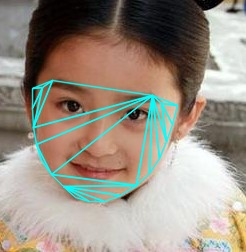
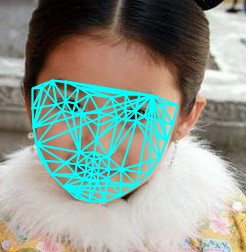
将“人脸直接贴取”，“人脸融合”的功能和进去了，并且成功运行

Changed region(s): [[0.1138, 0.3056, 0.7398, 0.8333]]

diff --git a/src/main/java/com/example/cinema/blImpl/picture/PhotoServiceImpl.java b/src/main/java/com/example/cinema/blImpl/picture/PhotoServiceImpl.java
@@ -49,37 +49,6 @@ public class PhotoServiceImpl implements PhotoService {
             faceCascade.load("D:\\openCV\\opencv341\\opencv\\build\\etc\\haarcascades\\haarcascade_frontalface_alt.xml");
             // 调用摄像头
             VideoCapture capture = new VideoCapture();
-//            try {
-//                capture.open(0);
-//                if (capture.isOpened()) {
-//                    Mat image = new Mat();
-//                    int i=0;
-//                    while(i<100) {
-//                        capture.read(image);
-//                        if (!image.empty()) {
-//                            //detectAndDisplay(image, faceCascade);
-//                            videoPanel.setImageWithMat(image);
-//                            cameraFrame.repaint();
-//                            i++;
-////                        Thread.sleep(1000);
-//                        } else {
-//                            System.exit(0);//退出
-//                            break;
-//                        }
-//                    }
-//
-//                    capture.read(image);
-//                    videoPanel.saveImageWithMat(image);
-//                    cameraFrame.repaint();
-//                    //System.exit(2);//退出
-//                }
-//                Thread.sleep(200);//2000毫秒刷新一次图像
-//                System.exit(0);//退出
-//            }
-//            catch (Exception e){}
-//            finally {
-//                capture.release();
-//            }
             try {
                 capture.open(0);
                 if (capture.isOpened()) {
@@ -98,13 +67,10 @@ public class PhotoServiceImpl implements PhotoService {
                             break;
                         }
                     }
-                    System.out.println("wq");
                     capture.read(image);
                     videoPanel.saveImageWithMat(image);
                     capture.release();
                     cameraFrame.dispose();
-                    System.out.println("wq1");
-                    //System.exit(0);
 
                 }
             } catch (InterruptedException e) {
@@ -112,38 +78,12 @@ public class PhotoServiceImpl implements PhotoService {
             } finally {
                 capture.release();
             }
-            System.out.println("12");
 
             String property = System.getProperty("user.dir");
             String path = property + "\\src\\main\\resources\\static\\photos\\photo.jpg";
-            File imageFile = new File(path);
-            if (imageFile.exists()) {
-                FileInputStream fis = null;
-                OutputStream os = null;
-                try {
-                    fis = new FileInputStream(imageFile);
-                    os = rp.getOutputStream();
-                    int count = 0;
-                    byte[] buffer = new byte[1024 * 8];
-                    while ((count = fis.read(buffer)) != -1) {
-                        os.write(buffer, 0, count);
-                       // os.flush();
-                    }
 
-                } catch (Exception e) {
-                    e.printStackTrace();
-                } finally {
-                    try {
-                        fis.close();
-                        os.close();
-                    } catch (IOException e) {
-                        e.printStackTrace();
-                    }
-                }
+            uploadPictureToAdvice(path,rp);
 
-            }
-
-            System.out.println(rp);
 
 
             return ResponseVO.buildSuccess();
@@ -156,90 +96,44 @@ public class PhotoServiceImpl implements PhotoService {
     }
 
 
+    /**
+     * 将后端生成的图片直接传到前端
+     * @param path
+     * @param rp
+     */
+    public static void uploadPictureToAdvice(String path,HttpServletResponse rp){
 
-//    @Override
-//    public ResponseVO takePictures() {
-//        Webcam webcam = Webcam.getDefault();
-//        webcam.setViewSize(WebcamResolution.VGA.getSize());
-//        WebcamPanel panel = new WebcamPanel(webcam);
-//        panel.setFPSDisplayed(true);
-//        panel.setDisplayDebugInfo(true);
-//        panel.setImageSizeDisplayed(true);
-//        panel.setMirrored(true);
-//
-//        JFrame window = new JFrame("Test webcam panel");
-//        window.add(panel);
-//        window.setResizable(true);
-//        window.setDefaultCloseOperation(JFrame.EXIT_ON_CLOSE);
-//        window.pack();
-//        window.setVisible(true);
-//
-//        final JButton button = new JButton("拍照");
-//        window.add(panel, BorderLayout.CENTER);
-//        window.add(button, BorderLayout.SOUTH);
-//        window.setResizable(true);
-//        window.pack();
-//        window.setVisible(true);
-//        try {
-//            String fileName = "D://" + System.currentTimeMillis(); // 保存路径即图片名称（不用加后缀）
-//            WebcamUtils.capture(webcam, fileName, ImageUtils.FORMAT_PNG);
-//            capture.open(0);
-//            if (capture.isOpened()) {
-//                Mat image = new Mat();
-//                int i=0;
-//                while(i<100) {
-//                    capture.read(image);
-//                    if (!image.empty()) {
-//                        //detectAndDisplay(image, faceCascade);
-//                        videoPanel.setImageWithMat(image);
-//                        cameraFrame.repaint();
-//                        i++;
-////                        Thread.sleep(1000);
-//                    } else {
-//                        System.exit(0);//退出
-//                        break;
-//                    }
-//                }
-//
-//                capture.read(image);
-//                videoPanel.saveImageWithMat(image);
-//                cameraFrame.repaint();
-//                //System.exit(2);//退出
-//            }
-//            Thread.sleep(200);//2000毫秒刷新一次图像
-//            System.exit(0);//退出
-//        }
-//        catch (Exception e){}
-//        finally {
-//            capture.release();
-//        }
-//        System.out.println("12");
-//        button.addActionListener(new ActionListener() {
-//            public void actionPerformed(ActionEvent e) {
-//
-//                button.setEnabled(false); // 设置按钮不可点击
-//
-//                // 实现拍照保存-------start
-//                String fileName = "D://" + System.currentTimeMillis(); // 保存路径即图片名称（不用加后缀）
-//                WebcamUtils.capture(webcam, fileName, ImageUtils.FORMAT_PNG);
-//                SwingUtilities.invokeLater(new Runnable() {
-//
-//                    @Override
-//                    public void run() {
-//                        JOptionPane.showMessageDialog(null, "拍照成功");
-//                        button.setEnabled(true); // 设置按钮可点击
-//
-//                        return;
-//                    }
-//                });
-//                // 实现拍照保存-------end
-//
-//            }
-//        });
-//
-//        return ResponseVO.buildSuccess();
-//    }
+//        String property = System.getProperty("user.dir");
+//        String path = property + "\\src\\main\\resources\\static\\photos\\photo.jpg";
+        File imageFile = new File(path);
+        if (imageFile.exists()) {
+            FileInputStream fis = null;
+            OutputStream os = null;
+            try {
+                fis = new FileInputStream(imageFile);
+                os = rp.getOutputStream();
+                int count = 0;
+                byte[] buffer = new byte[1024 * 8];
+                while ((count = fis.read(buffer)) != -1) {
+                    os.write(buffer, 0, count);
+                    // os.flush();
+                }
 
+            } catch (Exception e) {
+                e.printStackTrace();
+            } finally {
+                try {
+                    fis.close();
+                    os.close();
+                } catch (IOException e) {
+                    e.printStackTrace();
+                }
+            }
+
+        }
+
+        System.out.println(rp);
+    }
 
 
     /**

diff --git a/src/main/java/com/example/cinema/blImpl/picture/CartoonServiceImpl.java b/src/main/java/com/example/cinema/blImpl/picture/CartoonServiceImpl.java
@@ -5,7 +5,7 @@ import com.example.cinema.vo.ResponseVO;
 import org.springframework.beans.factory.annotation.Autowired;
 import org.springframework.stereotype.Service;
 
-
+import javax.servlet.http.HttpServletResponse;
 
 
 @Service
@@ -13,28 +13,35 @@ public class CartoonServiceImpl implements CartoonService {
     @Autowired
     OpenCVFaceSwap openCVFaceSwap;
 
+
+
     public static String savePath ;
 
     @Override
-    public ResponseVO ps(String path_real,String path_cartoon){
-//
+    public ResponseVO ps(String path_real, String path_cartoon, HttpServletResponse rp){
         String property_1 = System.getProperty("user.dir");
         String savePath = property_1 + "\\src\\main\\resources\\static\\photos\\";
 
-        //String savePath = "D:\\new\\";//图片存放位置
-        // 参数说明
-        // type ： opencv和baidu 两种获取人脸标记的位置点
-        // jingxi : true 使用全部点位进行分割，false使用外部轮廓的点位进行融合
-
-
         openCVFaceSwap.faceMerge(path_real,path_cartoon,savePath,"opencv",false);
+
+        String result_path=property_1+"\\src\\main\\resources\\static\\photos\\result.jpg";
+        openCVFaceSwap.uploadPictureToAdvice(result_path,rp);
 
         return ResponseVO.buildSuccess();
     }
 
 
     @Override
-    public ResponseVO fix(String path_real,String path_cartoon){
+    public ResponseVO fix(String path_real,String path_cartoon,HttpServletResponse rp){
+        String property_1 = System.getProperty("user.dir");
+        String savePath = property_1 + "\\src\\main\\resources\\static\\photos\\";
+
+        openCVFaceSwap.faceMerge(path_real,path_cartoon,savePath,"opencv",true);
+
+        String result_path=property_1+"\\src\\main\\resources\\static\\photos\\result.jpg";
+        openCVFaceSwap.uploadPictureToAdvice(result_path,rp);
+
+
         return ResponseVO.buildSuccess();
     }
 

diff --git a/src/main/java/com/example/cinema/blImpl/picture/OpenCVFaceSwap.java b/src/main/java/com/example/cinema/blImpl/picture/OpenCVFaceSwap.java
@@ -15,7 +15,11 @@ import org.bytedeco.opencv.opencv_imgproc.Subdiv2D;
 import org.bytedeco.opencv.opencv_imgproc.Vec6fVector;
 import org.springframework.stereotype.Service;
 
+import javax.servlet.http.HttpServletResponse;
 import java.io.File;
+import java.io.FileInputStream;
+import java.io.IOException;
+import java.io.OutputStream;
 import java.util.ArrayList;
 import java.util.LinkedList;
 import java.util.List;
@@ -585,4 +589,47 @@ public class OpenCVFaceSwap {
         //返回的就是两个图像的凸包的位置序列
         return  Pair.of(hull1, hull2);
     }
+
+
+
+    /**
+     * 将后端生成的图片直接传到前端
+     * @param path
+     * @param rp
+     */
+    public  void uploadPictureToAdvice(String path, HttpServletResponse rp){
+
+//        String property = System.getProperty("user.dir");
+//        String path = property + "\\src\\main\\resources\\static\\photos\\photo.jpg";
+        File imageFile = new File(path);
+        if (imageFile.exists()) {
+            FileInputStream fis = null;
+            OutputStream os = null;
+            try {
+                fis = new FileInputStream(imageFile);
+                os = rp.getOutputStream();
+                int count = 0;
+                byte[] buffer = new byte[1024 * 8];
+                while ((count = fis.read(buffer)) != -1) {
+                    os.write(buffer, 0, count);
+                    // os.flush();
+                }
+
+            } catch (Exception e) {
+                e.printStackTrace();
+            } finally {
+                try {
+                    fis.close();
+                    os.close();
+                } catch (IOException e) {
+                    e.printStackTrace();
+                }
+            }
+
+        }
+
+        System.out.println(rp);
+    }
+
+
 }

diff --git a/src/main/java/com/example/cinema/controller/picture/CartoonController.java b/src/main/java/com/example/cinema/controller/picture/CartoonController.java
@@ -7,6 +7,8 @@ import org.springframework.beans.factory.annotation.Autowired;
 import org.springframework.web.bind.annotation.GetMapping;
 import org.springframework.web.bind.annotation.RestController;
 
+import javax.servlet.http.HttpServletResponse;
+
 @RestController
 public class CartoonController {
 
@@ -14,19 +16,20 @@ public class CartoonController {
     CartoonService cartoonService;
 
     @GetMapping(value = "/cartoon/ps")
-    public ResponseVO ps(){
+    public ResponseVO ps(HttpServletResponse rp){
         String property_1 = System.getProperty("user.dir");
         String path_real = property_1 + "\\src\\main\\resources\\static\\photos\\ertong1.jpg";
         String path_cartoon=property_1 + "\\src\\main\\resources\\static\\photos\\gongzhu.jpg";
-        return cartoonService.ps(path_real,path_cartoon);
+        return cartoonService.ps(path_real,path_cartoon,rp);
     }
 
 
     @GetMapping(value = "/cartoon/fix")
-    public ResponseVO fix(){
-        String path_real="";
-        String path_cartoon="";
-        return cartoonService.fix(path_real,path_cartoon);
+    public ResponseVO fix(HttpServletResponse rp){
+        String property_1 = System.getProperty("user.dir");
+        String path_real = property_1 + "\\src\\main\\resources\\static\\photos\\ertong1.jpg";
+        String path_cartoon=property_1 + "\\src\\main\\resources\\static\\photos\\gongzhu.jpg";
+        return cartoonService.fix(path_real,path_cartoon,rp);
     }
 
 }

diff --git a/src/main/java/com/example/cinema/bl/picture/CartoonService.java b/src/main/java/com/example/cinema/bl/picture/CartoonService.java
@@ -2,16 +2,18 @@ package com.example.cinema.bl.picture;
 
 import com.example.cinema.vo.ResponseVO;
 
+import javax.servlet.http.HttpServletResponse;
+
 public interface CartoonService {
 
     /**
      * 将真实的人脸直接ps在卡通图片上面
      */
-    ResponseVO ps(String path_real,String path_cartoon);
+    ResponseVO ps(String path_real, String path_cartoon, HttpServletResponse rp);
 
 
     /**
      * 将真实的人脸直接和卡通人脸进行融合
      */
-    ResponseVO fix(String path_real,String path_cartoon);
+    ResponseVO fix(String path_real,String path_cartoon,HttpServletResponse rp);
 }
